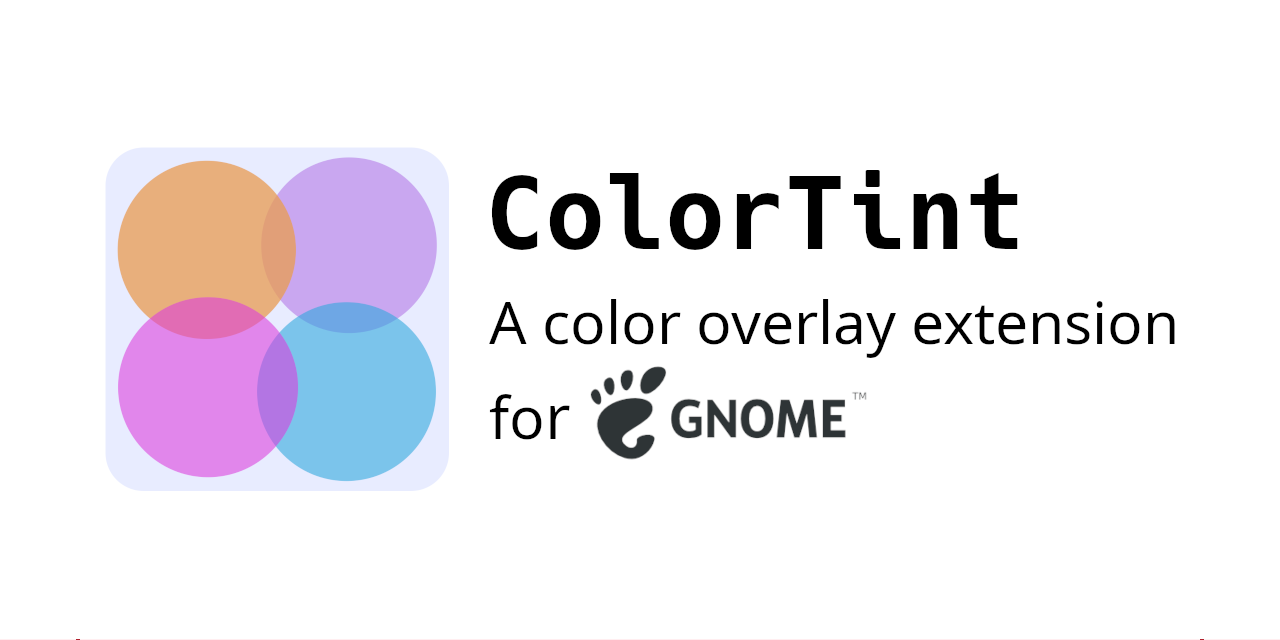
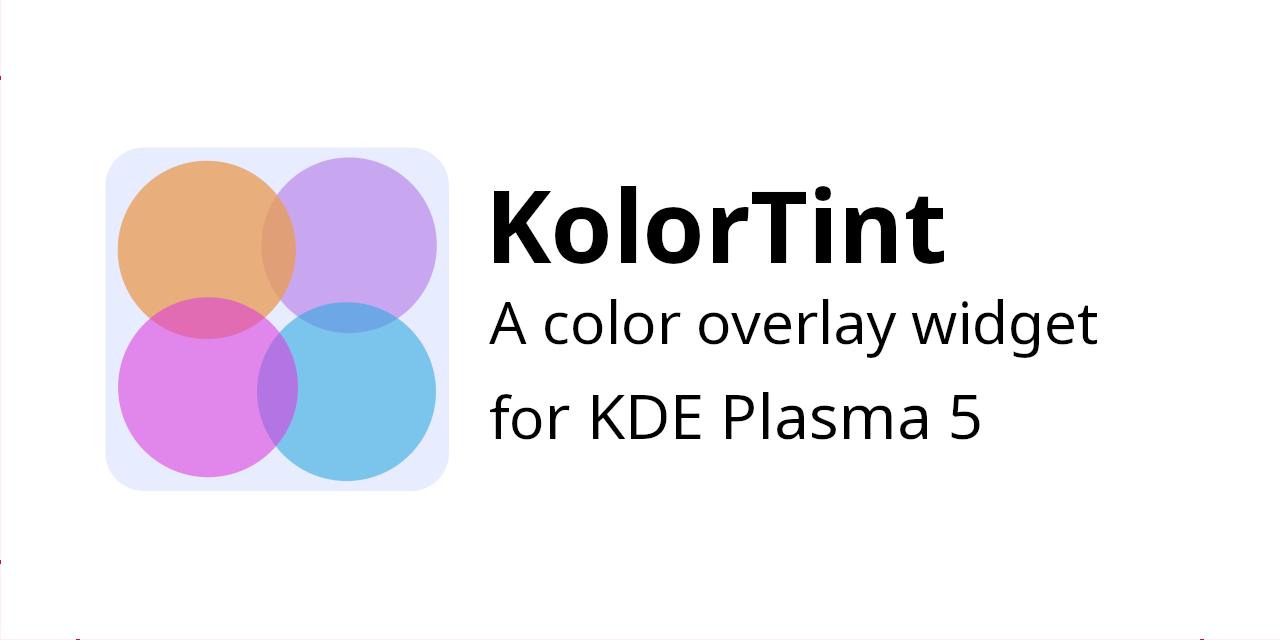
Updated git hub social card and readme

Changed region(s): [[0.375, 0.25, 0.8125, 0.4375], [0.4375, 0.5625, 0.7812, 0.7188], [0.6562, 0.4688, 0.9375, 0.5625]]

diff --git a/README.md b/README.md
@@ -1,0 +1,29 @@
+# KolorTint
+![KolorTint Banner](assets/github_social_card.png)
+
+**KolorTint is pre-release**
+
+## About
+KolorTint is a KDE widget that draws a translucent coloured overlay over your desktop. This is to help people with dyslexia, scopic sensitivity, and related conditions. It is the companion to [ColorTint](https://github.com/MattByName/color-tint), a GNOME extension with the same function.
+
+[![ko-fi](https://ko-fi.com/img/githubbutton_sm.svg)](https://ko-fi.com/E1E1CFXTK)
+
+### Links
+* [GitHub Repository](https://github.com/MattByName/kolor-tint))
+* [GitHub Releases](https://github.com/MattByName/kolor-tint/releases)
+
+## Installation
+KolorTine is not complete yet. Installation instructions will be included upon release.
+## Features
+* Set any RGB colour
+* Custom translucency
+* KolorTint remembers your chosen color, automatically saving it when you change it, and loading on launch
+* Supports multiple monitor setup
+
+## Contributing
+Please do contribute if you want to change something or help out with one of the issues.
+
+## Support, Feature Requests and Bug Reports
+
+Please [raise an issue](https://github.com/MattByName/color-tint/issues/new) or raise a pull request. Alternatively, you can contact me via matrix at [@mattbyname:matrix.org](https://matrix.to/#/@mattbyname:matrix.org)
+
